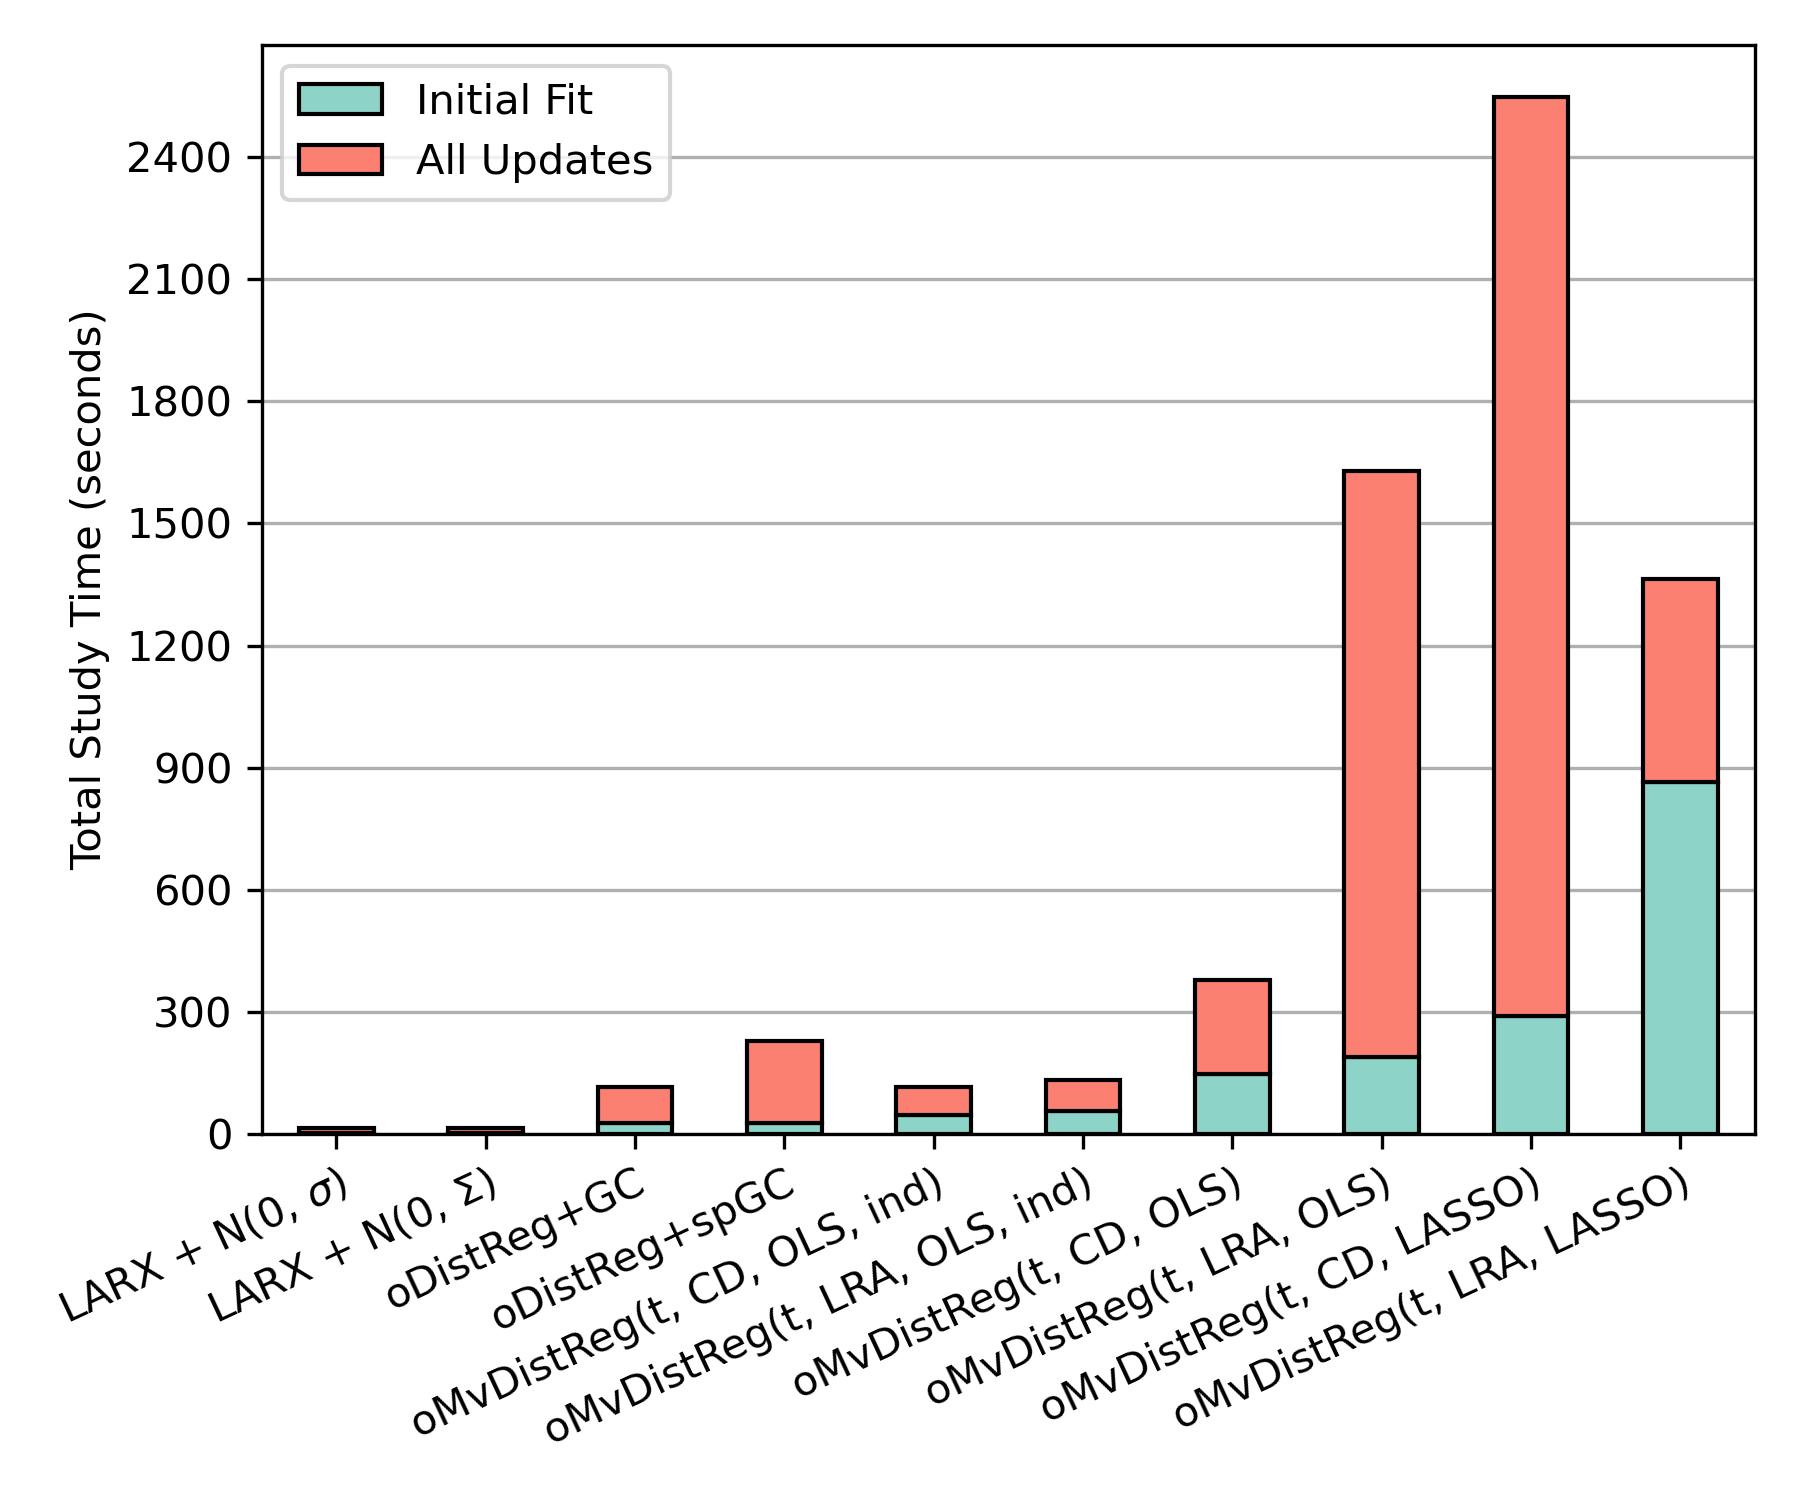
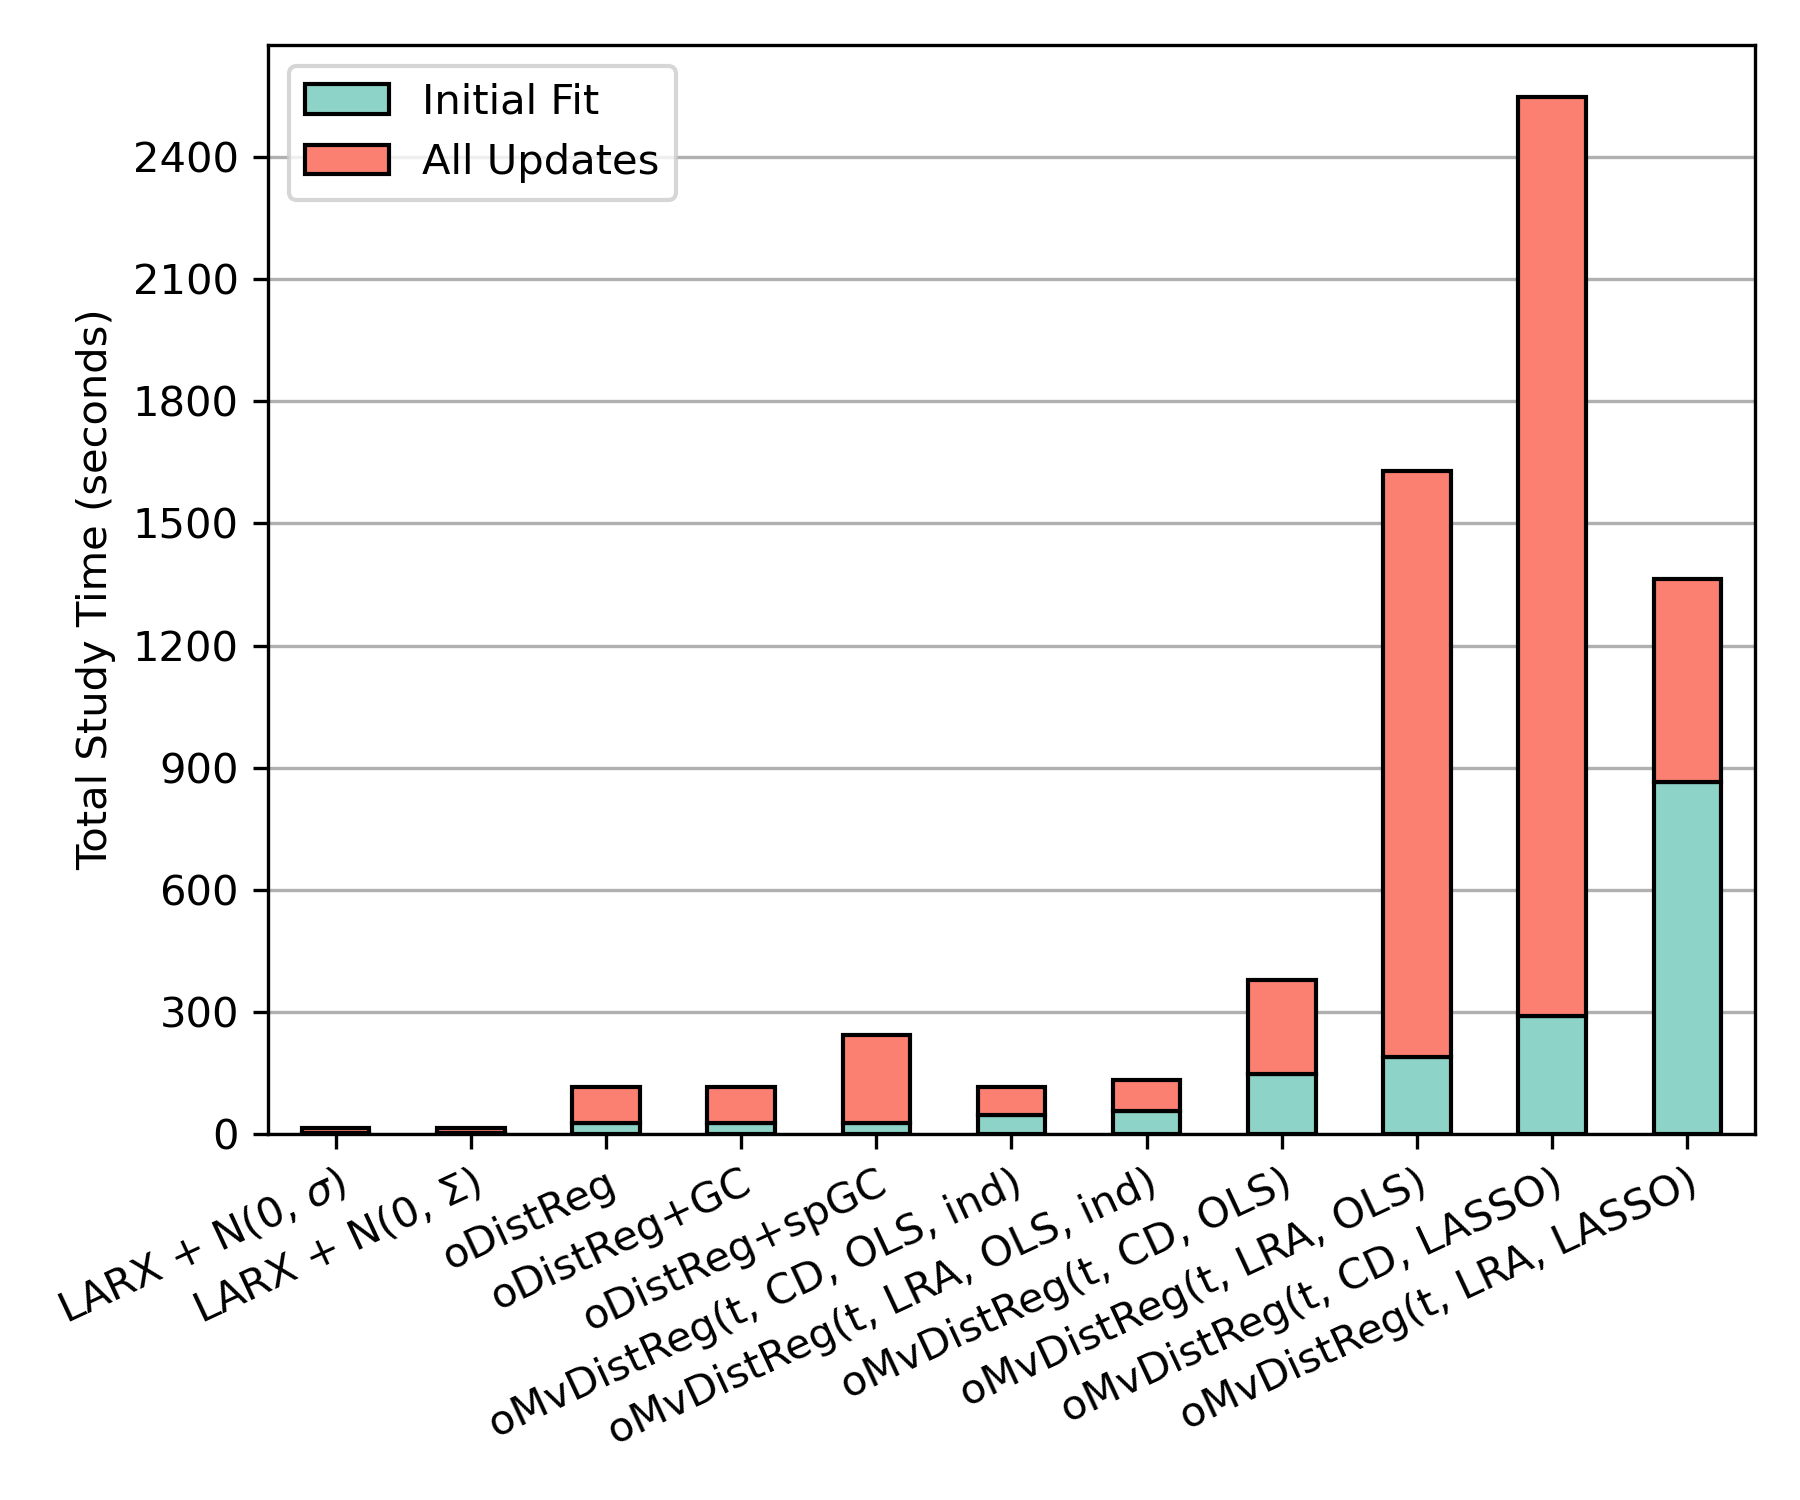
Add univariate distreg to timings

diff --git a/experiments/epf_germany/tables/timings.tex b/experiments/epf_germany/tables/timings.tex
@@ -4,8 +4,9 @@ Model & Initial Fit & Avg. Update & Std. Update & Total Time & Est. Speedup \\
 \midrule
 LARX + N(0, $\sigma$) & 1.74 & 0.02 & 0.04 & 13.70 & $\times$93 \\
 LARX + N(0, $\Sigma$) & 1.74 & 0.02 & 0.04 & 13.70 & $\times$93 \\
-oDistReg+GC & 25.08 & 0.12 & 0.07 & 114.72 & $\times$160 \\
-oDistReg+spGC & 25.34 & 0.27 & 0.07 & 227.31 & $\times$82 \\
+oDistReg & 25.08 & 0.12 & 0.07 & 114.26 & $\times$161 \\
+oDistReg+GC & 25.08 & 0.12 & 0.07 & 114.71 & $\times$160 \\
+oDistReg+spGC & 25.28 & 0.29 & 0.07 & 241.68 & $\times$76 \\
 oMvDistReg(t, CD, OLS, ind) & 46.44 & 0.09 & 0.07 & 113.68 & $\times$300 \\
 oMvDistReg(t, LRA, OLS, ind) & 55.32 & 0.11 & 0.03 & 132.70 & $\times$306 \\
 oMvDistReg(t, CD, OLS) & 146.94 & 0.31 & 0.01 & 377.33 & $\times$286 \\

diff --git a/experiments/epf_germany/08_make_table_timings.py b/experiments/epf_germany/08_make_table_timings.py
@@ -15,11 +15,19 @@ timings_mv_distreg = np.load(PATH_DISTREG_MUL)[KEY].T
 timings_arx = np.load(PATH_ARX)[KEY]
 
 
-timings = np.hstack((timings_arx, timings_copula, timings_mv_distreg))
+timings = np.hstack(
+    (
+        timings_arx,
+        timings_univ_distreg.sum(axis=1, keepdims=True),
+        timings_copula,
+        timings_mv_distreg,
+    )
+)
 
 MODELS = [
     "LARX + N(0, $\sigma$)",
     "LARX + N(0, $\Sigma$)",
+    "oDistReg",
     "oDistReg+GC",
     "oDistReg+spGC",
     "oMvDistReg(t, CD, OLS, ind)",
